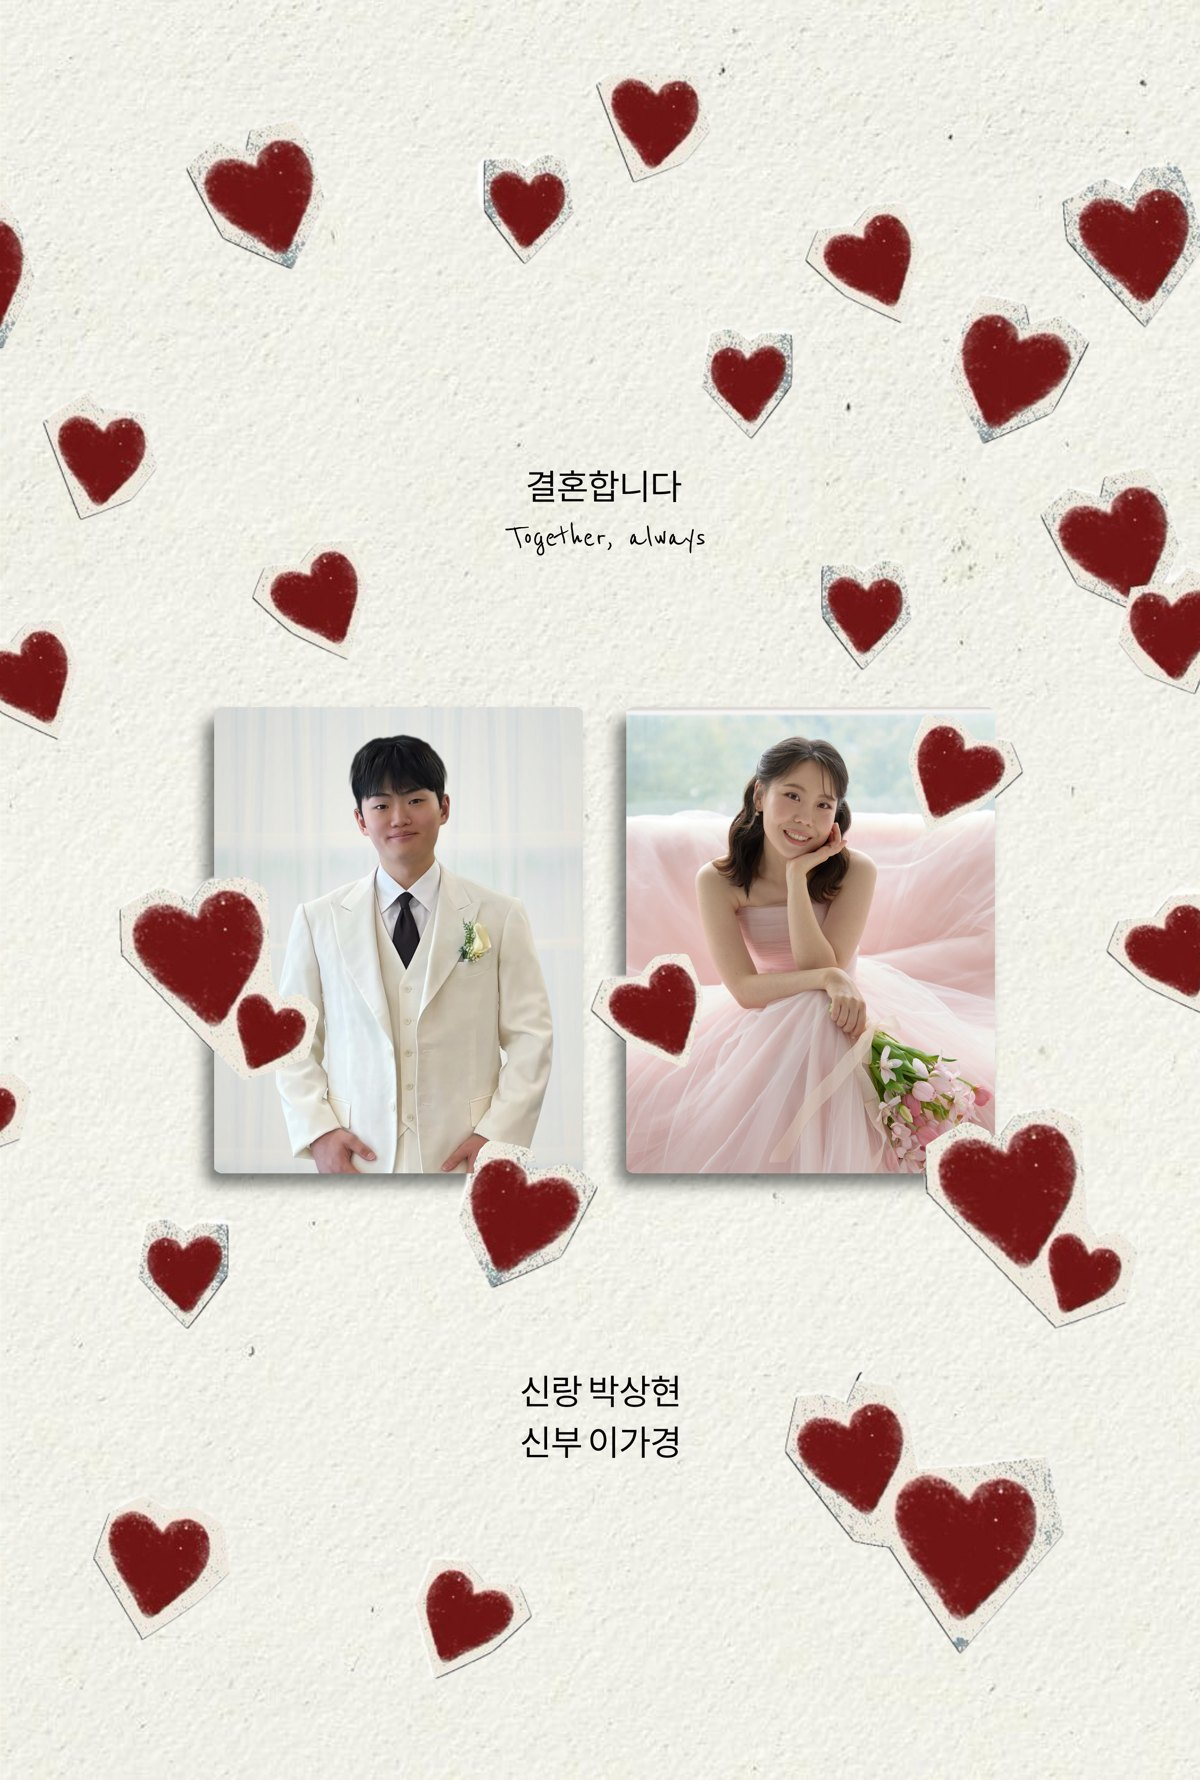
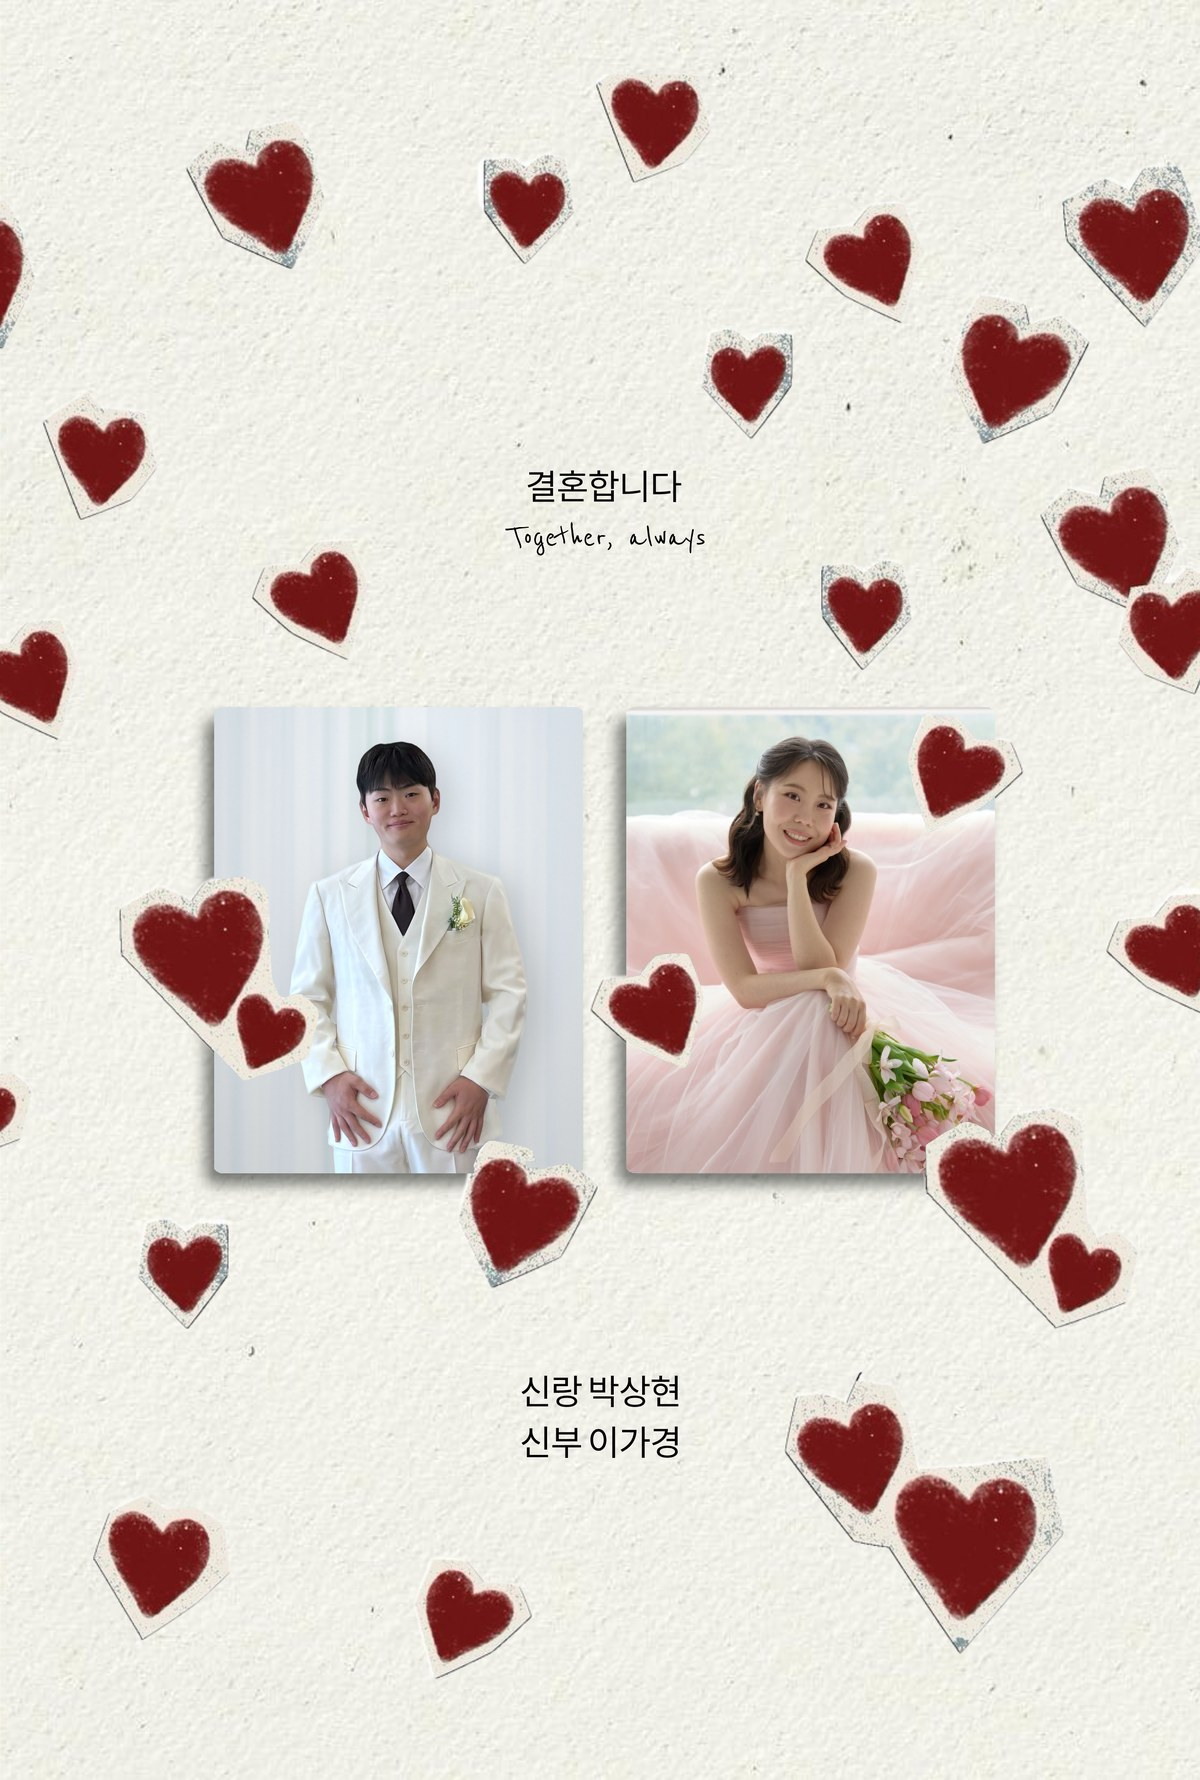
Cover: recomposite the groom on the studio curtain with matched light, grain and clean hair edge
- tools/groom_cover.py: cutout, light/colour match, soft shadow, grain, edge cleanup
- tools/build_cover.py: fill the cover photo windows, keeping the other side as is

Changed region(s): [[0.2158, 0.4017, 0.4625, 0.6798]]

diff --git a/index.html b/index.html
@@ -7,7 +7,7 @@
   <title>박상현 ♥ 이가경 결혼합니다</title>
   <meta property="og:title" content="박상현 ♥ 이가경 결혼합니다">
   <meta property="og:description" content="2027년 2월 13일 토요일 낮 12시 10분">
-  <meta property="og:image" content="img/cover.jpg?v=25">
+  <meta property="og:image" content="img/cover.jpg?v=26">
   <link rel="preconnect" href="https://fonts.googleapis.com">
   <link rel="preconnect" href="https://fonts.gstatic.com" crossorigin>
   <link
@@ -29,7 +29,7 @@
 
     <!-- 1. 인트로 -->
     <section class="intro" id="intro">
-      <img src="img/cover.jpg?v=25" alt="박상현 이가경 결혼합니다">
+      <img src="img/cover.jpg?v=26" alt="박상현 이가경 결혼합니다">
     </section>
 
     <!-- 2. Our Wedding day -->

diff --git a/tools/groom_cover.py b/tools/groom_cover.py
@@ -1,0 +1,109 @@
+"""
+표지 왼쪽 신랑 사진 만들기: 신랑만 분리해서 스튜디오 흰 커튼 배경에 자연스럽게 합성.
+
+    python tools/groom_cover.py            → 배경/원본/groom_cover.png 생성 (표지 합성용)
+
+입력
+  웨딩사진/신랑사진.jpg   신랑 원본
+  웨딩사진/15.jpg         같은 스튜디오의 흰 커튼 사진 (사람 없는 윗부분만 배경으로 사용)
+필요: pip install pillow numpy opencv-python-headless "rembg[cpu]"
+"""
+import os
+import cv2
+import numpy as np
+from PIL import Image, ImageOps
+
+ROOT = os.path.dirname(os.path.dirname(os.path.abspath(__file__)))
+SRC = os.path.join(ROOT, '웨딩사진', '신랑사진.jpg')
+CURTAIN = os.path.join(ROOT, '웨딩사진', '15.jpg')
+OUT_DIR = os.path.join(ROOT, '배경', '원본')
+MASK = os.path.join(OUT_DIR, 'groom_mask.png')
+
+# 표지에 쓸 영역 (얼굴~상반신, 신부 사진과 얼굴 크기가 비슷하도록) — 원본 픽셀 기준 x1, y1, x2, y2
+BOX = (584, 1495, 2141, 3465)
+
+
+def main():
+    src = ImageOps.exif_transpose(Image.open(SRC)).convert('RGB')
+    W, H = src.size
+    rgb = np.array(src).astype(np.float32)
+
+    # 1) 사람 윤곽 (머리카락 결까지 잡는 인물 전용 모델, 한 번 만들면 저장해서 재사용)
+    if os.path.exists(MASK):
+        a0 = np.array(Image.open(MASK)).astype(np.float32) / 255
+    else:
+        from rembg import remove, new_session
+        a0 = np.array(remove(src, session=new_session('birefnet-portrait'), only_mask=True)).astype(np.float32) / 255
+        Image.fromarray((a0 * 255).astype('uint8')).save(MASK)
+    # 모델 윤곽은 가장자리가 너무 넓게 흐려서(머리 둘레가 뿌옇게 번짐) 원래 머리선에 맞게 좁힘
+    a = np.clip((a0 - .35) / .4, 0, 1)
+    a = a * a * (3 - 2 * a)
+
+    hm = (a0 > .5).astype(np.uint8)
+    rows = np.where(hm[:, int(W * .3):int(W * .7)].any(1))[0]
+    top = int(rows.min()) if len(rows) else 0
+
+    # 팔·허리 사이로 보이는 어두운 커튼 조각 제거 (넥타이 아래 높이부터, 피부색은 유지)
+    r, g = rgb[..., 0], rgb[..., 1]
+    dark = (rgb.mean(2) < 115) & ~(r > g + 15)
+    dark[:top + 820] = False
+    a[dark] = 0
+    a = cv2.GaussianBlur(a, (0, 0), .9)           # 칼로 자른 듯한 윤곽만 살짝 부드럽게
+
+    # 가장자리 색: 뒤 커튼 색이 번지지 않게 안쪽(사람) 색으로 채움
+    # 윤곽 바로 안쪽 몇 픽셀도 커튼 색이 섞여 있어서(얼굴·귀 테두리의 회색 선) 안쪽으로 좁힌 영역의 색을 씀
+    solid = cv2.erode((a0 > .95).astype(np.uint8), np.ones((9, 9), np.uint8)).astype(np.float32)
+    num = cv2.GaussianBlur(rgb * solid[..., None], (0, 0), 18)
+    den = cv2.GaussianBlur(solid, (0, 0), 18)[..., None] + 1e-6
+    fg = np.where(((a > .02) & (solid < .5))[..., None], num / den, rgb)
+
+    # 2) 배경: 15번 사진의 흰 커튼 (사람이 없는 윗부분). 커튼 주름은 세로라서 세로로 늘려도 자연스러움
+    cur = ImageOps.exif_transpose(Image.open(CURTAIN)).convert('RGB')
+    cw, ch = cur.size
+    band = cur.crop((0, 0, cw, int(ch * .30)))
+    k = H * 1.0 / band.height
+    band = band.resize((int(band.width * k * .62), H), Image.LANCZOS)     # 주름 간격을 신랑 크기에 맞춤
+    bg = Image.new('RGB', (W, H))
+    x, flip = 0, False
+    while x < W:
+        bg.paste(ImageOps.mirror(band) if flip else band, (x, 0)); x += band.width; flip = not flip
+    bg = cv2.GaussianBlur(np.array(bg).astype(np.float32), (0, 0), 5)      # 살짝 초점 밖 (심도)
+
+    # 3) 빛 맞추기: 창가의 밝고 살짝 차가운 빛 → 사람 쪽 노란 실내 조명을 덜고 조금 밝게
+    fg = fg * np.array([0.965, 1.0, 1.06]) * 1.06
+    fg = np.clip((fg - 128) * .96 + 128, 0, 255)                          # 대비 살짝 낮춰 창가 빛처럼
+    bg = bg * .93
+    yy, xx = np.mgrid[0:H, 0:W].astype(np.float32)
+    d = np.sqrt(((xx - W * .5) / W) ** 2 + ((yy - H * .45) / H) ** 2)
+    bg *= (1.05 - .28 * d)[..., None]                                       # 은은한 비네팅
+
+    # 4) 그림자: 사람 뒤 커튼에 아주 은은하게 (빛이 앞 왼쪽에서 오는 방향)
+    sh = cv2.GaussianBlur(a0, (0, 0), 60)
+    sh = cv2.warpAffine(sh, np.float32([[1, 0, 45], [0, 1, 25]]), (W, H))
+    bg *= (1 - .16 * sh)[..., None]
+
+    # 5) 라이트 랩: 밝은 배경 빛이 윤곽에 살짝 번지게 → 오려 붙인 느낌 줄이기
+    bgb = cv2.GaussianBlur(bg, (0, 0), 30)
+    inner = cv2.GaussianBlur(a, (0, 0), 10)
+    wrap = np.clip(a - inner, 0, 1) * 1.6
+    wrap = np.clip(wrap, 0, .35)
+    wrap[:top + 560] = 0                          # 머리·얼굴은 제외 (밝은 빛이 섞이면 회색 테두리처럼 보임)
+    wrap = wrap[..., None]
+    fg = fg * (1 - wrap) + np.maximum(fg, bgb) * wrap
+
+    out = fg * a[..., None] + bg * (1 - a[..., None])
+
+    # 6) 입자감 통일: 배경에도 원본 사진 정도의 노이즈를 넣어 매끈한 '그림' 느낌 제거
+    hp = rgb - cv2.GaussianBlur(rgb, (0, 0), 1.5)
+    sigma = float(np.std(hp[a0 > .9]))
+    noise = np.random.default_rng(7).normal(0, sigma * .9, (H, W, 1)).astype(np.float32)
+    out += noise * (1 - a[..., None])
+
+    img = Image.fromarray(np.clip(out, 0, 255).astype('uint8')).crop(BOX)
+    os.makedirs(OUT_DIR, exist_ok=True)
+    img.save(os.path.join(OUT_DIR, 'groom_cover.png'))
+    print('완료', img.size, 'grain', round(sigma, 2))
+
+
+if __name__ == '__main__':
+    main()

diff --git a/tools/build_cover.py b/tools/build_cover.py
@@ -1,0 +1,80 @@
+"""
+표지(img/cover.jpg)의 사진 칸 교체 도구.
+
+    python tools/build_cover.py --left 배경/원본/groom_cover.png
+    python tools/build_cover.py --right 배경/원본/bride.jpg --right-cy 0.28
+
+  - 배경/대문사진.png 의 두 사진 칸(하늘색 부분)에 사진을 채워 표지를 만듭니다.
+  - 지정하지 않은 쪽 칸은 지금 표지(img/cover.jpg)의 사진을 그대로 둡니다.
+  - --left-cy / --right-cy : 세로 위치 (0=위, 1=아래, 기본 .5)
+  - index.html 의 cover.jpg 캐시 숫자(?v=)도 자동으로 올립니다.
+"""
+import argparse
+import os
+import re
+
+import numpy as np
+from PIL import Image, ImageFilter, ImageOps
+from scipy import ndimage as ndi
+
+ROOT = os.path.dirname(os.path.dirname(os.path.abspath(__file__)))
+POSTER = os.path.join(ROOT, '배경', '대문사진.png')
+COVER = os.path.join(ROOT, 'img', 'cover.jpg')
+WINDOWS = {'left': (514, 1399), 'right': (1503, 2388)}   # 사진 칸 가로 범위 (대문사진 기준)
+Y0, Y1 = 1697, 2816                                       # 사진 칸 세로 범위
+
+
+def window_mask(arr, x0, x1):
+    """사진 칸(하늘색 풍경)만 고르기. 칸 안에 갇힌 구름도 포함, 하트 스티커는 제외."""
+    r, g, b = [arr[..., i].astype(int) for i in range(3)]
+    red = (r > g + 40) & (r > b + 40)
+    region = np.zeros(arr.shape[:2], bool); region[Y0:Y1, x0:x1] = True
+    m = ((g > r + 8) | (b > r + 8)) & region
+    filled = ndi.binary_fill_holes(np.pad(m, 1, constant_values=True))[1:-1, 1:-1]
+    lab, n = ndi.label(filled & ~m)
+    for i in range(1, n + 1):
+        c = lab == i
+        if not (red & c).any() and c.sum() < 60000:
+            m |= c
+    m = np.array(Image.fromarray((m * 255).astype('uint8')).filter(ImageFilter.MaxFilter(5))) > 0
+    return m
+
+
+def main():
+    ap = argparse.ArgumentParser()
+    ap.add_argument('--left'); ap.add_argument('--right')
+    ap.add_argument('--left-cy', type=float, default=.5); ap.add_argument('--right-cy', type=float, default=.5)
+    o = ap.parse_args()
+
+    poster = np.array(Image.open(POSTER).convert('RGB'))
+    out = poster.copy()
+    keep = []                                     # 지금 표지에서 그대로 둘 칸
+    for side, (x0, x1) in WINDOWS.items():
+        path, cy = getattr(o, side), getattr(o, f'{side}_cy')
+        m = window_mask(poster, x0, x1)
+        if not path:
+            keep.append(m); continue
+        im = ImageOps.exif_transpose(Image.open(path)).convert('RGB')
+        ph = np.array(ImageOps.fit(im, (x1 - x0, Y1 - Y0), Image.LANCZOS, centering=(.5, cy)))
+        sub = m[Y0:Y1, x0:x1]
+        out[Y0:Y1, x0:x1][sub] = ph[sub]
+
+    img = Image.fromarray(out)
+    img.thumbnail((1200, 1800), Image.LANCZOS)
+    if keep and os.path.exists(COVER):
+        old = Image.open(COVER).convert('RGB').resize(img.size)
+        km = np.zeros(poster.shape[:2], bool)
+        for m in keep: km |= m
+        km = Image.fromarray((km * 255).astype('uint8')).resize(img.size, Image.LANCZOS)
+        img = Image.composite(old, img, km)
+    img.save(COVER, quality=88, optimize=True)
+
+    html = os.path.join(ROOT, 'index.html')
+    s = open(html, encoding='utf8').read()
+    s = re.sub(r'img/cover\.jpg\?v=(\d+)', lambda m: f'img/cover.jpg?v={int(m.group(1)) + 1}', s)
+    open(html, 'w', encoding='utf8').write(s)
+    print('완료:', COVER, img.size)
+
+
+if __name__ == '__main__':
+    main()
